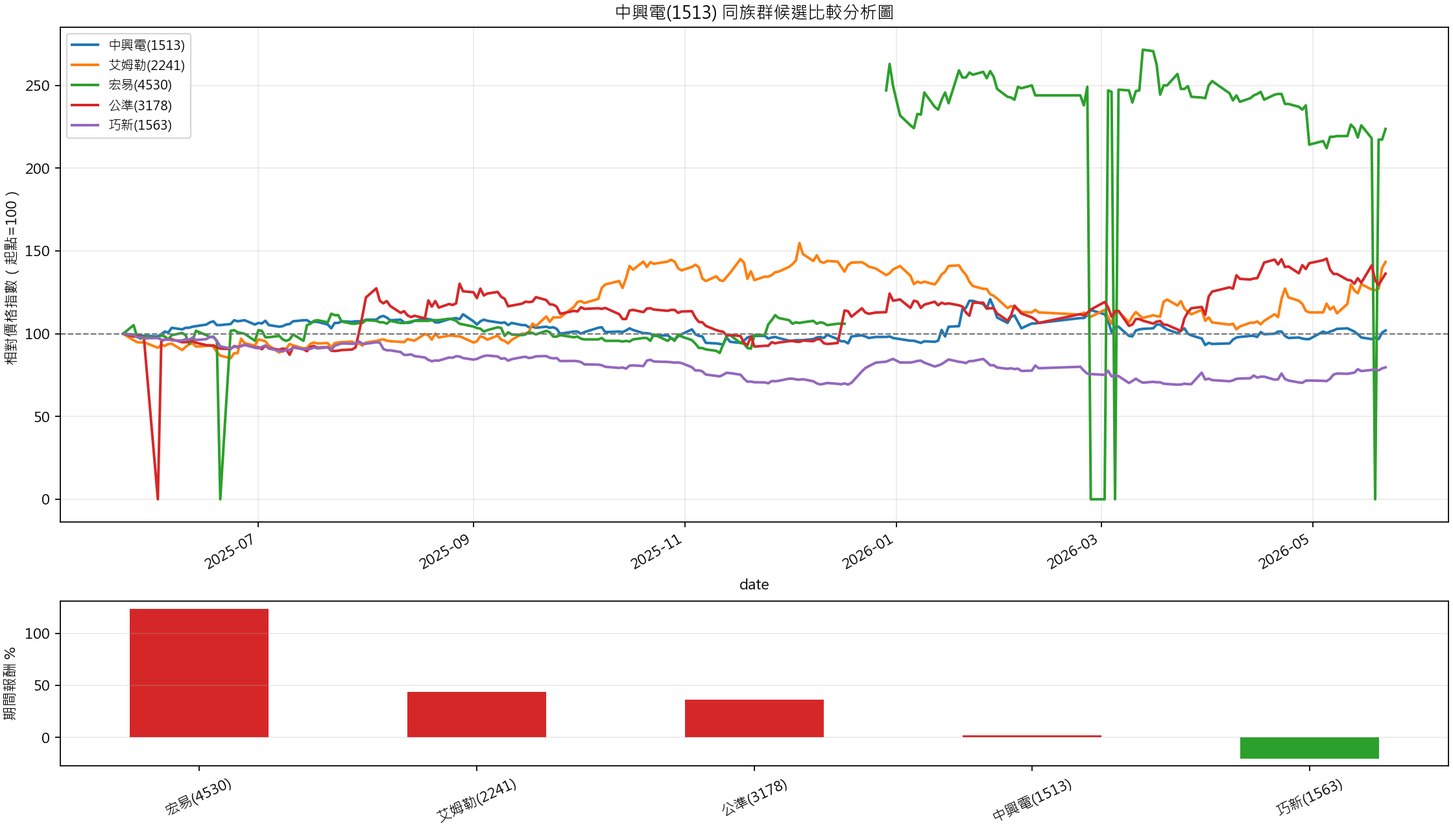
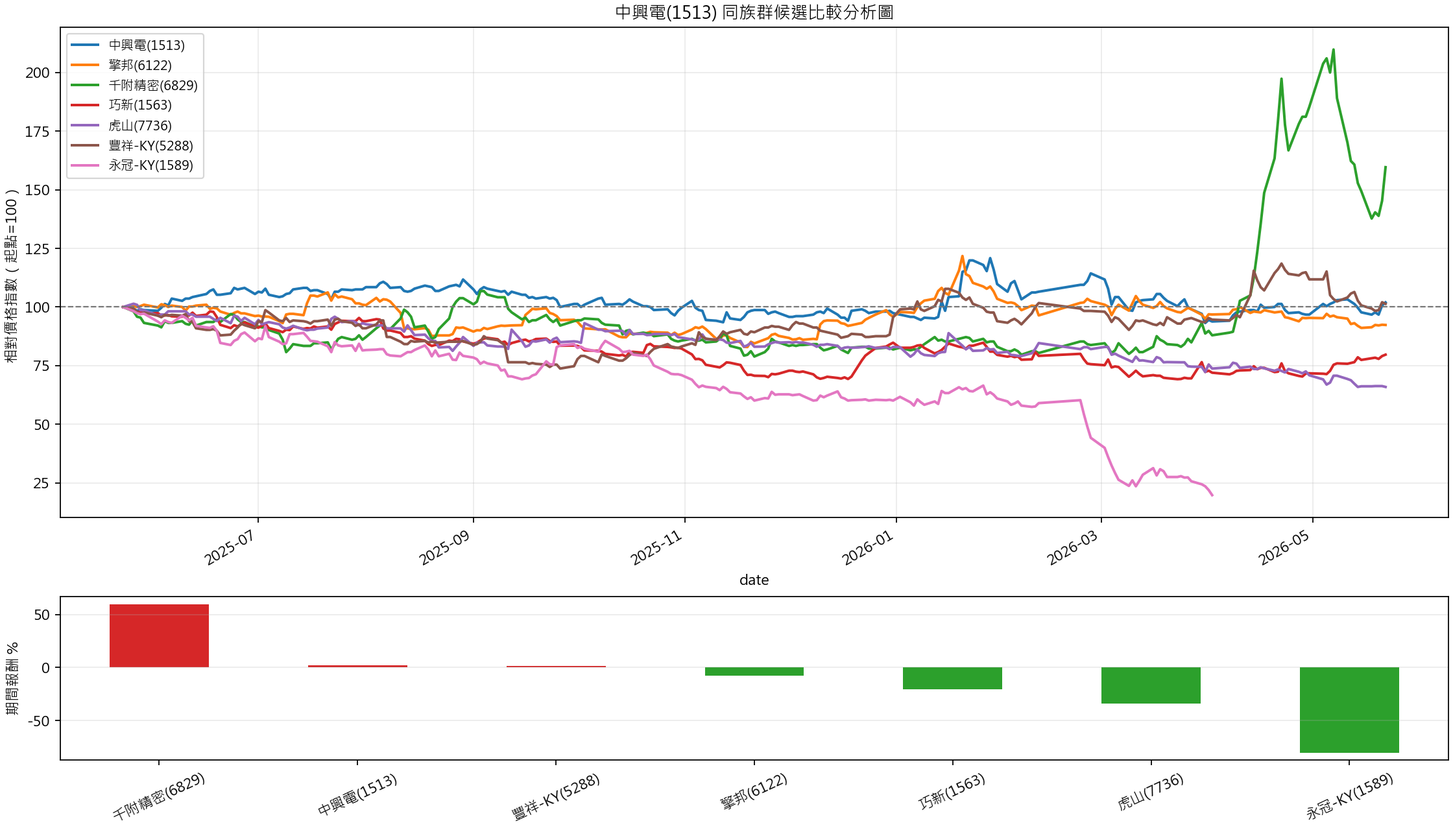
Publish stock report 1513_2026-05-23

diff --git a/1513_2026-05-23/index.html b/1513_2026-05-23/index.html
@@ -92,23 +92,16 @@
 <body>
   <header>
     <h1>中興電(1513) 台股技術分析報告</h1>
-    <div>產生時間：2026-05-23T07:47:08+08:00</div>
+    <div>產生時間：2026-05-23T09:40:03+08:00</div>
   </header>
   <main>
     
     <section class="panel conclusion">
       <h2>結論摘要</h2>
       <div class="summary-grid"><div class="summary-card"><span>整體方向</span><strong>中性偏多；收盤站上 MA5, MA5 低於 MA10, MA10 上方且投信 5/10 日偏買</strong></div>
-<div class="summary-card"><span>明日偏向</span><strong>偏多震盪</strong></div>
-<div class="summary-card"><span>一個月情境</span><strong>偏多延續</strong></div>
-<div class="summary-card"><span>關鍵觀察</span><strong>量價中性偏多；明日觀察 MA5 151.60 / MA10 153.20</strong></div>
+<div class="summary-card"><span>明日觀察</span><strong>量價中性偏多；明日觀察 MA5 151.60 / MA10 153.20</strong></div>
 <div class="summary-card"><span>支撐</span><strong>第一 151.60 / 第二 153.20 / 強 152.85</strong></div>
-<div class="summary-card"><span>壓力</span><strong>163.50</strong></div>
-<div class="summary-card"><span>ATR 波動</span><strong>ATR14 3.96，常態區間 152.54～160.46</strong></div>
-<div class="summary-card"><span>權證籌碼</span><strong>認購成交占 100.00%，近價外認購 13 檔，前五大成交占 39.29%</strong></div>
-<div class="summary-card"><span>權證看股價</span><strong>現股距認購主流履約價仍有 28.56% 空間，屬高想像但投機風險也高</strong></div>
-<div class="summary-card"><span>權證白話</span><strong>權證人氣偏多但偏投機，只能輔助現股判斷；現股不續強時權證容易快速降溫</strong></div>
-<div class="summary-card"><span>最大風險</span><strong>跌破 MA10 153.20 且放量，短線轉弱；跌破 MA20 152.85 則整理擴大</strong></div></div>
+<div class="summary-card"><span>壓力</span><strong>163.50</strong></div></div>
     </section>
     
     <section class="panel">
@@ -119,50 +112,52 @@
 <tr><th>最後交易日</th><td>2026-05-22</td></tr>
 <tr><th>有效交易日數</th><td>243</td></tr>
 <tr><th>圖表狀態</th><td>已產生 6 張圖表</td></tr>
-<tr><th>同族群比較</th><td>中興電(1513)、艾姆勒(2241)、宏易(4530)、公準(3178)、巧新(1563)</td></tr>
+<tr><th>同族群比較</th><td>中興電(1513)、擎邦(6122)、千附精密(6829)、巧新(1563)、虎山(7736)、豐祥-KY(5288)、永冠-KY(1589)</td></tr>
 <tr><th>ETF 持股異動</th><td>持有快照 2026-05-22，未命中最新異動</td></tr>
+<tr><th>集保股權分散</th><td>20260515；大額 42.40% / 小額 36.01%</td></tr>
 <tr><th>權證資料</th><td>115 檔，認購 113 / 認售 2</td></tr>
-<tr><th>基本面資料</th><td>月營收與估值資料已取得</td></tr></table>
+<tr><th>基本面資料</th><td>月營收、估值與正式 EPS 已取得</td></tr></table>
     </section>
     <section class="panel analysis"><h2>零、整體評語 / 技術分析概念 / 明日走向</h2><ul><li>整體評語：目前整體評級為「中性偏多」（分數 1）。日線 偏多、周線 偏多、月線 偏多，三個週期若同向，訊號可信度較高；若互相矛盾，應以區間與量能確認為主。</li><li>技術分析概念：本報告以趨勢、位置、量能三個面向判讀。趨勢看均線排列（MA5 151.60, MA10 153.20, MA20 152.85, MA60 154.72），位置看近 20 / 60 日高低點，量能看今日成交量 6,295,032 是否高於近 20 日均量 6,458,096。</li><li>目前結構：均線彼此交錯，代表市場仍在整理或方向選擇階段。收盤位於近 20 日區間約 59% 位置，仍需觀察是否能脫離區間。量能接近均量，價格訊號可參考，但強弱仍需隔日確認。</li><li>MA5 短線判斷：收盤站上 MA5，短線仍有撐盤力道。</li><li>MA10 / 投信支撐：收盤價站上 MA10（153.20），且投信近 5 日買賣超 1,837,840、近 10 日 1,774,230，代表短線均線支撐有法人買盤配合，MA10 支撐可信度較高。</li><li>明日走向推估：基於 日漲跌為正, 收盤站上 MA5, 收盤站上 MA10, 收盤站上 MA20，明日初步以「偏多震盪」看待；若開高並站穩 163.50，有機會延續挑戰上方壓力；若開低或跌破 146.50，短線需先防守轉弱。</li><li>觀察價位：短線支撐優先看 154.72，壓力優先看 163.50；明日若量能放大且收盤方向明確，會比盤中瞬間突破或跌破更具參考性。</li></ul></section>
-<section class="panel analysis"><h2>一、圖表重點解讀</h2><ul><li>整體評分為「中性偏多」（分數 1），主要依據：收盤站上 MA5、MA5 低於 MA10、收盤站上 MA20、收盤站上 MA60、MA20 低於 MA60。</li><li>資料最後交易日為 2026-05-22，最新收盤價 156.50，單日漲跌幅 1.29%；一年區間 142.50～189.00，一年報酬 1.95%。</li><li>趨勢判讀：價格與 20 日、60 日均線交錯，趨勢仍偏整理。 目前 收盤價位於區間中段，短線方向仍需量價確認。</li><li>量價判讀：量價中性偏多。價格收紅但量能接近均量，需等補量或突破確認。</li><li>短線均線判斷：收盤站上 MA10=153.20，但 MA5=151.60 仍低於 MA10，代表短線正在修復但均線尚未重新翻多。收盤價站上 MA10（153.20），且投信近 5 日買賣超 1,837,840、近 10 日 1,774,230，代表短線均線支撐有法人買盤配合，MA10 支撐可信度較高。</li><li>短線風險 / 空間：距近 20 日低點約 6.83%，距近 20 日高點約 4.47%；量能為近 20 日均量 0.97 倍。</li><li>同族群相對表現：中興電(1513) 期間報酬 1.95%，排名第 4/5；領先者為 宏易(4530) 123.71%。</li><li>操作解讀上，若價格突破壓力且量能續增，偏多情境較有延續性；若跌破短線支撐且放量，需優先控管風險。</li></ul></section>
-<section class="panel analysis"><h2>二、日週月趨勢與支撐壓力</h2><ul><li>日線短線：MA5=151.60、MA10=153.20；收盤站上 MA10=153.20，但 MA5=151.60 仍低於 MA10，代表短線正在修復但均線尚未重新翻多。</li><li>MA5走平，近似變化 0.13%。</li><li>MA10下彎，近似變化 -1.38%。</li><li>MA10 / 投信支撐：收盤價站上 MA10（153.20），且投信近 5 日買賣超 1,837,840、近 10 日 1,774,230，代表短線均線支撐有法人買盤配合，MA10 支撐可信度較高。</li><li>日線中線：MA20=152.85、MA60=154.72；收盤價相對 20 日均線 偏強。</li><li>MA20走平，近似變化 -0.36%。</li><li>MA60走平，近似變化 -0.62%。</li><li>周線：最新周收 156.50，較前一周 4.33%。</li><li>月線：最新月收 156.50，較前一月 5.39%。</li><li>第一支撐（5 日）：MA5 151.60 / 近 5 日低點 146.50；守住代表超短線買盤仍在，跌破則看第二支撐是否接手。</li><li>第二支撐（10 日）：MA10 153.20 / 近 10 日低點 146.50；收盤價站上 MA10（153.20），且投信近 5 日買賣超 1,837,840、近 10 日 1,774,230，代表短線均線支撐有法人買盤配合，MA10 支撐可信度較高。</li><li>強支撐（20 日）：MA20 152.85 / 近 20 日低點 146.50；若跌破 MA20 且量增，短線整理容易擴大。</li><li>中線支撐（60 日）：近 60 日低點 142.50。</li><li>短線壓力觀察近 20 日高點 163.50，中線壓力觀察近 60 日高點 178.00。</li><li>若收盤有效突破 163.50，短線結構轉強；若跌破 146.50，短線需防守轉弱。</li></ul></section>
-<section class="panel analysis"><h2>九、短線 / 中線與進出場情境</h2><ul><li>明日短線先看 MA5 151.60 與 MA10 153.20：站穩 MA5 且投信近 5 / 10 日維持買超，偏多延續性較高；跌破 MA10 且投信轉賣，短線需先防守。</li><li>短線若站穩 163.50，可視為挑戰近 20 日壓力；若跌破 146.50，需留意轉弱。</li><li>中線若守住 142.50，區間結構仍相對完整；若跌破，需重新評估趨勢。</li><li>若價格持續位於 MA20 與 MA60 之上且量能維持大於均量，偏多情境可信度提高；反之若跌破均線且量增，需防守風險。</li><li>突破追價情境：若收盤有效突破近 20 日高點 163.50，且量能高於 20 日均量，偏向趨勢延伸；失效點觀察是否跌回 MA5 151.60 下方。</li><li>拉回承接情境：若回測 MA10 / MA20 區間約 153.20～152.85 並量縮守住，代表拉回較像整理；若投信同步買超，支撐可信度提高。</li><li>跌破停損情境：若放量跌破 146.50 或近 20 日低點 146.50，短線結構轉弱，應優先降低偏多情境權重。</li><li>波動提醒：ATR14 約 3.96；若盤中波動超過 1 倍 ATR 且收盤未收回關鍵均線，代表風險升高。</li></ul></section>
-<section class="panel analysis"><h2>十二、風險提醒</h2><ul><li>本分析不構成投資建議；技術分析、籌碼估算、權證、同族群、基本面與未來情境推估皆可能失準。</li><li>權證屬高槓桿商品，可能快速損失；預測不代表價格保證。</li></ul></section>
+<section class="panel analysis"><h2>一、圖表重點解讀</h2><ul><li>整體評分為「中性偏多」（分數 1），主要依據：收盤站上 MA5、MA5 低於 MA10、收盤站上 MA20、收盤站上 MA60、MA20 低於 MA60。</li><li>資料最後交易日為 2026-05-22，最新收盤價 156.50，單日漲跌幅 1.29%；一年區間 142.50～189.00，一年報酬 1.95%。</li><li>趨勢判讀：價格與 20 日、60 日均線交錯，趨勢仍偏整理。 目前 收盤價位於區間中段，短線方向仍需量價確認。</li><li>量價判讀：量價中性偏多。價格收紅但量能接近均量，需等補量或突破確認。</li><li>短線均線判斷：收盤站上 MA10=153.20，但 MA5=151.60 仍低於 MA10，代表短線正在修復但均線尚未重新翻多。收盤價站上 MA10（153.20），且投信近 5 日買賣超 1,837,840、近 10 日 1,774,230，代表短線均線支撐有法人買盤配合，MA10 支撐可信度較高。</li><li>短線風險 / 空間：距近 20 日低點約 6.83%，距近 20 日高點約 4.47%；量能為近 20 日均量 0.97 倍。</li><li>同族群題材判斷：中興電(1513) 期間報酬 1.95%，排名第 2/7，屬於領先族群；族群同步普通（上漲 3/7 檔），領先者為 千附精密(6829) 59.62%。若族群同步續強，股價突破的可信度較高；若只有本股獨強，追價需留意回檔風險。</li><li>操作解讀上，若價格突破壓力且量能續增，偏多情境較有延續性；若跌破短線支撐且放量，需優先控管風險。</li></ul></section>
+<section class="panel analysis"><h2>二、日週月趨勢與支撐壓力</h2><ul><li>日線：MA5 151.60、MA10 153.20、MA20 152.85；收盤站上 MA10=153.20，但 MA5=151.60 仍低於 MA10，代表短線正在修復但均線尚未重新翻多。</li><li>周線 / 月線：周收 156.50（4.33%），月收 156.50（5.39%）。</li><li>支撐：第一 MA5 151.60 / 近 5 日低點 146.50；第二 MA10 153.20；強支撐 MA20 152.85 / 近 20 日低點 146.50。</li><li>壓力：短線看近 20 日高點 163.50，中線看近 60 日高點 178.00。</li><li>簡化判斷：突破 163.50 且補量，偏多延續；跌破 146.50 或 MA20，先轉防守。</li></ul></section>
+<section class="panel analysis"><h2>三、圖表閱讀順序</h2><ul><li>先看 01 日線：確認短線方向、成交量與支撐壓力。</li><li>再看 02 周線與 03 月線：確認這波是短線反彈、波段趨勢，還是長期壓力區。</li><li>最後看權證、同族群、基本面與集保：只作輔助確認，不單獨決定操作。</li></ul></section>
+<section class="panel analysis"><h2>九、短線 / 中線與進出場情境</h2><ul><li>突破情境：收盤突破 163.50 且量能高於 20 日均量，偏多延續；跌回 MA5 151.60 下方則降權重。</li><li>拉回情境：回測 MA10 153.20 或 MA20 152.85 量縮守住，才視為健康整理。</li><li>防守情境：放量跌破 MA20 152.85 或近 20 日低點 146.50，短線先轉防守。</li><li>波動參考：ATR14 約 3.96，明日常態波動區間約 152.54～160.46。</li></ul></section>
+<section class="panel analysis"><h2>九之一、股性與操作方式</h2><ul><li>股性判斷：低到中波動型，ATR 約占股價 2.53%。較適合區間或波段觀察，突破需要量能確認，否則容易來回震盪。</li><li>偏整理轉強：仍在 MA10 / MA20 上方，但短線尚未完全展開，較適合等拉回守住 MA10 或突破壓力再行動。</li><li>量能策略：量能接近均量，訊號中性，需等待突破壓力或跌破支撐來確認方向。</li><li>籌碼策略：收盤價站上 MA10（153.20），且投信近 5 日買賣超 1,837,840、近 10 日 1,774,230，代表短線均線支撐有法人買盤配合，MA10 支撐可信度較高。</li><li>權證輔助：權證未提供明顯單邊支持，操作仍以現股量價與支撐壓力為主。</li><li>參考操作框架：上方以近 20 日高點 163.50 作為突破確認，下方以 MA10 153.20、MA20 152.85 與近 20 日低點 146.50 分層控管。此為條件式交易計畫，不是保證買賣訊號。</li></ul></section>
     
         <section class="panel chart-panel">
           <h2>01_日線完整技術與籌碼分析圖</h2>
-          <img src="01_日線完整技術與籌碼分析圖.png?v=2026-05-23T07:47:08+08:00" alt="01_日線完整技術與籌碼分析圖">
+          <img src="01_日線完整技術與籌碼分析圖.png?v=2026-05-23T09:40:03+08:00" alt="01_日線完整技術與籌碼分析圖">
         </section>
         
 
         <section class="panel chart-panel">
           <h2>02_周線完整技術與趨勢分析圖</h2>
-          <img src="02_周線完整技術與趨勢分析圖.png?v=2026-05-23T07:47:08+08:00" alt="02_周線完整技術與趨勢分析圖">
+          <img src="02_周線完整技術與趨勢分析圖.png?v=2026-05-23T09:40:03+08:00" alt="02_周線完整技術與趨勢分析圖">
         </section>
         
 
         <section class="panel chart-panel">
           <h2>03_月線完整技術與長期趨勢分析圖</h2>
-          <img src="03_月線完整技術與長期趨勢分析圖.png?v=2026-05-23T07:47:08+08:00" alt="03_月線完整技術與長期趨勢分析圖">
+          <img src="03_月線完整技術與長期趨勢分析圖.png?v=2026-05-23T09:40:03+08:00" alt="03_月線完整技術與長期趨勢分析圖">
         </section>
         
 
         <section class="panel chart-panel">
           <h2>04_權證完整分析圖</h2>
-          <img src="04_權證完整分析圖.png?v=2026-05-23T07:47:08+08:00" alt="04_權證完整分析圖">
+          <img src="04_權證完整分析圖.png?v=2026-05-23T09:40:03+08:00" alt="04_權證完整分析圖">
         </section>
         
 
         <section class="panel chart-panel">
           <h2>05_同族群比較分析圖</h2>
-          <img src="05_同族群比較分析圖.png?v=2026-05-23T07:47:08+08:00" alt="05_同族群比較分析圖">
+          <img src="05_同族群比較分析圖.png?v=2026-05-23T09:40:03+08:00" alt="05_同族群比較分析圖">
         </section>
         
 
         <section class="panel chart-panel">
           <h2>06_基本面分析圖</h2>
-          <img src="06_基本面分析圖.png?v=2026-05-23T07:47:08+08:00" alt="06_基本面分析圖">
+          <img src="06_基本面分析圖.png?v=2026-05-23T09:40:03+08:00" alt="06_基本面分析圖">
         </section>
         
     <section class="panel">
@@ -190,13 +185,13 @@
 
     <details class="panel detail-panel">
       <summary>六、權證與市場情緒</summary>
-      <div class="detail-body"><ul><li>權證定位：以下只作為現股技術面與短線情緒的輔助判斷；現股漲跌仍以 K 線趨勢、支撐壓力、量能與法人 / 融資融券為主。</li><li>權證資料期間 / 出表日：TWSE report_date=1150522。</li><li>本次匹配權證 115 檔；認購 113 檔、認售 2 檔，認購/認售檔數比 56.50。</li><li>履約價分布 134.22～276.00，中位數 201.88；標的最新收盤 156.50。</li><li>價內 / 近價外結構：認購價內 2 檔、認購 10% 內價外 13 檔；認售價內 0 檔、認售 10% 內價外 0 檔。</li><li>成交金額合計 10,591,250，其中認購 10,591,250（100.00%）、認售 0（0.00%）；認購成交較集中，前 5 大成交占比 39.29%。</li><li>權證名詞說明：價內代表履約價已對買方有利，通常較接近現股價格變動；近價外代表履約價離現股不遠，若現股再往有利方向走，權證敏感度容易提高；深價外代表履約價離現股很遠，價格便宜但成功機率較低，時間價值流失也更快。</li><li>履約價熱區：認購成交加權履約價約 201.20，較現股高約 28.56%；認售成交加權履約價因成交金額不足暫不估算。認購成交中，近價外 10% 內占 14.71%，深價外認購占 85.29%。</li><li>以權證角度看目前股價：目前股價 156.50 距離認購成交加權履約價 201.20 還有 28.56% 空間，代表權證市場仍在押較大的上攻想像；但若現股沒有快速補漲，深價外認購的時間價值壓力會增加。</li><li>權證籌碼分型：本次屬於「偏多但投機」。近價外認購成交金額 1,557,810，深價外認購成交金額 9,033,440，近價外認售成交金額 0，深價外認售成交金額 0。深價外認購比重偏高，代表市場想像空間大，但也表示若現股漲幅不夠快，時間價值會明顯消耗。</li><li>資金集中度：前 5 大權證成交占 39.29%。成交集中度中等，資金有熱門標的但沒有完全擠在少數權證。</li><li>輔助結論：認購成交很熱，但深價外認購占比較高，表示市場有追逐大波動的投機資金。它可以反映人氣升溫，但對現股漲跌的確認力低於近價外認購。</li><li>白話解讀：很多人在買認購，可是有不少買得很遠，這比較像押快速大漲；如果現股沒有繼續強，這些權證容易先降溫。簡單說，權證是在看市場有沒有跟著股票一起熱起來；它可以加分或扣分，但不能單獨決定股價方向。</li><li>未來一個月輔助推估：現股技術面初步為「偏多延續」，權證籌碼只作為輔助。若價格維持在 MA20 / MA60 之上、量能不縮，且認購成交沒有明顯退潮，偏多情境較容易延續；若現股跌破支撐，即使認購仍熱，也要先降低權證訊號權重。</li><li>一個月觀察區間：上方先看 163.50，再看近 60 日高點 178.00；下方先看 152.85，再看近 20 日低點 146.50。突破近 20 日高點 163.50 可視為偏多確認；跌破近 20 日低點 146.50 則偏多情境失效；MA20 152.85 是短中線強弱分界。</li><li>權證操作提醒：若買認購，優先關注接近現股、成交量穩定、到期日不過近的標的；深價外權證即使價格便宜，也容易因時間價值流失而快速歸零。若現股跌破支撐，權證部位應比現股更快控管風險。</li></ul></div>
+      <div class="detail-body"><ul><li>權證定位：本段只用權證資料觀察現股人氣與未來漲勢機率，不作權證買賣建議。</li><li>權證資料期間 / 出表日：TWSE report_date=1150522。</li><li>本次匹配權證 115 檔；認購 113 檔、認售 2 檔，認購/認售檔數比 56.50。</li><li>履約價分布 134.22～276.00，中位數 201.88；標的最新收盤 156.50。</li><li>價內 / 近價外結構：認購價內 2 檔、認購 10% 內價外 13 檔；認售價內 0 檔、認售 10% 內價外 0 檔。</li><li>成交金額合計 10,591,250，其中認購 10,591,250（100.00%）、認售 0（0.00%）；認購成交較集中，前 5 大成交占比 39.29%。</li><li>權證名詞說明：近價外認購代表市場押注區離現股不遠，對現股續漲的參考性通常高於深價外；深價外認購代表想像空間大，但確認力較弱。</li><li>履約價熱區：認購成交加權履約價約 201.20，較現股高約 28.56%；認售成交加權履約價因成交金額不足暫不估算。認購成交中，近價外 10% 內占 14.71%，深價外認購占 85.29%。</li><li>以權證角度看目前股價：目前股價 156.50 距離認購成交加權履約價 201.20 還有 28.56% 空間，代表權證市場仍在押較大的上攻想像；但若現股沒有快速補漲，深價外認購的時間價值壓力會增加。</li><li>權證情緒分型：本次屬於「偏多但投機」。近價外認購成交金額 1,557,810，深價外認購成交金額 9,033,440，近價外認售成交金額 0，深價外認售成交金額 0。深價外認購比重偏高，代表市場想像空間大，但對現股方向的確認力較弱。</li><li>資金集中度：前 5 大權證成交占 39.29%。成交集中度中等，資金有熱門標的但沒有完全擠在少數權證。</li><li>輔助結論：認購成交很熱，但深價外認購占比較高，表示市場有追逐大波動的投機資金。它可以反映人氣升溫，但對現股漲跌的確認力低於近價外認購。</li><li>白話解讀：權證市場偏向押快速上漲，但有一部分離現股較遠；如果現股沒有繼續強，這個熱度容易先退。簡單說，權證是在看市場有沒有跟著股票一起熱起來；它可以加分或扣分，但不能單獨決定股價方向。</li><li>未來一個月現股輔助推估：現股技術面初步為「偏多延續」。若價格維持在 MA20 / MA60 之上、量能不縮，且認購成交沒有明顯退潮，偏多情境較容易延續；若現股跌破支撐，即使認購仍熱，也要先降低權證訊號權重。</li><li>一個月觀察區間：上方先看 163.50，再看近 60 日高點 178.00；下方先看 152.85，再看近 20 日低點 146.50。突破近 20 日高點 163.50 可視為偏多確認；跌破近 20 日低點 146.50 則偏多情境失效；MA20 152.85 是短中線強弱分界。</li><li>現股判斷用法：近價外認購有量、認售沒有明顯放大、且現股同步站穩均線時，權證資料可視為現股續漲的加分項；若權證很熱但現股不漲，則視為人氣過熱而非追價確認。</li></ul></div>
     </details>
     
 
     <details class="panel detail-panel">
       <summary>七、同族群比較</summary>
-      <div class="detail-body"><ul><li>比較依據：大產業候選：電機機械</li><li>比較清單：中興電(1513)、艾姆勒(2241)、宏易(4530)、公準(3178)、巧新(1563)</li><li>同期間相對報酬排序：宏易(4530) 123.71%、艾姆勒(2241) 43.37%、公準(3178) 36.29%、中興電(1513) 1.95%、巧新(1563) -20.33%</li><li>部分候選排除：總格精密(4578): No TaiwanStockPrice rows for 4578；東元精電(8041): No TaiwanStockPrice rows for 8041</li><li>此圖標示為同產業候選比較，不等同精準子產業或主題族群。</li></ul></div>
+      <div class="detail-body"><ul><li>比較依據：同產業相關性候選：電機機械（中：同產業候選，將再依一年價格相關性篩選；一年日報酬相關性排序）</li><li>比較清單：中興電(1513)、擎邦(6122)、千附精密(6829)、巧新(1563)、虎山(7736)、豐祥-KY(5288)、永冠-KY(1589)</li><li>同期間相對報酬排序：千附精密(6829) 59.62%、中興電(1513) 1.95%、豐祥-KY(5288) 1.35%、擎邦(6122) -7.67%、巧新(1563) -20.33%、虎山(7736) -34.10%</li><li>相關性：擎邦(6122) 0.334、千附精密(6829) 0.292、巧新(1563) 0.236、虎山(7736) 0.223、豐祥-KY(5288) 0.186、永冠-KY(1589) 0.170</li><li>部分候選排除：總格精密(4578): No TaiwanStockPrice rows for 4578；東元精電(8041): No TaiwanStockPrice rows for 8041；開億(1523): No TaiwanStockPrice rows for 1523</li><li>此圖為同產業相關性候選比較，不等同精準子產業；若使用者指定清單，會優先採用指定清單。</li></ul></div>
     </details>
     
 
@@ -207,8 +202,14 @@
     
 
     <details class="panel detail-panel">
+      <summary>七之二、集保股權分散資訊</summary>
+      <div class="detail-body"><ul><li>資料來源：TDCC OpenAPI /v1/opendata/1-5 集保戶股權分散表；資料日期 20260515。</li><li>集保戶數合計 153,862 人，集保股數合計 503,112,515 股。</li><li>小額持股（1～10,000 股）占 36.01%；中階持股（50,001～400,000 股）占 9.50%；大額持股（400,001 股以上）占 42.40%，其中百萬股以上占 37.71%。</li><li>集保結構判斷：籌碼較分散。散戶與中小持股比重較高，股價上攻時更需要成交量與法人買盤配合。</li><li>散戶化觀察：小額持股占比偏高，短線若遇利空或跌破支撐，籌碼容易比較浮動。</li><li>限制：TDCC 集保資料通常是每週最後營業日結束後的持股級距統計，能看籌碼集中或分散，但不能知道是哪位自然人或哪家主力在買賣。</li></ul></div>
+    </details>
+    
+
+    <details class="panel detail-panel">
       <summary>八、基本面 EPS / 月營收</summary>
-      <div class="detail-body"><ul><li>基本面資料期間：revenue 2023-12-01 to 2026-05-01; PER/PBR 2025-05-23 to 2026-05-22。</li><li>最新月營收 2026-04 為 23.08 億元，MoM -6.87%，YoY 5.86%。</li><li>近 3 個月營收 66.65 億元，較前 3 個月 -5.06%。</li><li>最新估值：PER 19.02、PBR 3.59、殖利率 3.83%，以收盤價/PER 推估 EPS 約 8.23。</li></ul></div>
+      <div class="detail-body"><ul><li>基本面資料期間：revenue 2023-12-01 to 2026-05-01; PER/PBR 2025-05-23 to 2026-05-22; EPS 2021-06-30 to 2026-03-31。</li><li>最新月營收 2026-04 為 23.08 億元，MoM -6.87%，YoY 5.86%。</li><li>近 3 個月營收 66.65 億元，較前 3 個月 -5.06%。</li><li>最新估值：PER 19.02、PBR 3.59、殖利率 3.83%。</li><li>正式 EPS：最新 2026Q1 基本每股盈餘 1.94 元，較去年同期 8.99%。</li><li>是否支持股價：支持度中性。理由：近 3 個月營收動能轉弱、最新月營收年增為正、正式 EPS 年增。</li></ul></div>
     </details>
     
 
@@ -247,6 +248,43 @@
     
 
     <details class="panel detail-panel">
+      <summary>集保戶股權分散表格</summary>
+      <div class="detail-body">
+      <div class="table-scroll">
+        <table>
+          <thead>
+            <tr>
+              <th>級距</th>
+              <th>持股分級</th>
+              <th>人數</th>
+              <th>股數</th>
+              <th>占集保庫存比例</th>
+            </tr>
+          </thead>
+          <tbody><tr><td>1</td><td>1-999 股</td><td class="cell-number">72,738</td><td class="cell-number">9,342,361</td><td class="cell-number">1.85%</td></tr>
+<tr><td>2</td><td>1,000-5,000 股</td><td class="cell-number">72,106</td><td class="cell-number">129,255,137</td><td class="cell-number">25.69%</td></tr>
+<tr><td>3</td><td>5,001-10,000 股</td><td class="cell-number">5,489</td><td class="cell-number">42,645,352</td><td class="cell-number">8.47%</td></tr>
+<tr><td>4</td><td>10,001-15,000 股</td><td class="cell-number">1,367</td><td class="cell-number">17,554,752</td><td class="cell-number">3.48%</td></tr>
+<tr><td>5</td><td>15,001-20,000 股</td><td class="cell-number">754</td><td class="cell-number">14,043,157</td><td class="cell-number">2.79%</td></tr>
+<tr><td>6</td><td>20,001-30,000 股</td><td class="cell-number">558</td><td class="cell-number">14,369,036</td><td class="cell-number">2.85%</td></tr>
+<tr><td>7</td><td>30,001-40,000 股</td><td class="cell-number">222</td><td class="cell-number">8,036,422</td><td class="cell-number">1.59%</td></tr>
+<tr><td>8</td><td>40,001-50,000 股</td><td class="cell-number">139</td><td class="cell-number">6,514,395</td><td class="cell-number">1.29%</td></tr>
+<tr><td>9</td><td>50,001-100,000 股</td><td class="cell-number">243</td><td class="cell-number">17,587,678</td><td class="cell-number">3.49%</td></tr>
+<tr><td>10</td><td>100,001-200,000 股</td><td class="cell-number">113</td><td class="cell-number">15,023,732</td><td class="cell-number">2.98%</td></tr>
+<tr><td>11</td><td>200,001-400,000 股</td><td class="cell-number">52</td><td class="cell-number">15,277,161</td><td class="cell-number">3.03%</td></tr>
+<tr><td>12</td><td>400,001-600,000 股</td><td class="cell-number">16</td><td class="cell-number">7,813,151</td><td class="cell-number">1.55%</td></tr>
+<tr><td>13</td><td>600,001-800,000 股</td><td class="cell-number">14</td><td class="cell-number">9,495,239</td><td class="cell-number">1.88%</td></tr>
+<tr><td>14</td><td>800,001-1,000,000 股</td><td class="cell-number">7</td><td class="cell-number">6,384,191</td><td class="cell-number">1.26%</td></tr>
+<tr><td>15</td><td>1,000,001 股以上</td><td class="cell-number">44</td><td class="cell-number">189,770,751</td><td class="cell-number">37.71%</td></tr>
+<tr><td>16</td><td>差異或調整數</td><td class="cell-number">0</td><td class="cell-number">0</td><td class="cell-number">0.00%</td></tr>
+<tr><td>17</td><td>合計</td><td class="cell-number">153,862</td><td class="cell-number">503,112,515</td><td class="cell-number">100.00%</td></tr></tbody>
+        </table>
+      </div>
+    </div>
+    </details>
+    
+
+    <details class="panel detail-panel">
       <summary>權證成交金額前 5 名表格</summary>
       <div class="detail-body">
       <div class="table-scroll">
@@ -271,11 +309,6 @@
     </div>
     </details>
     
-    <section class="panel notice">
-      <strong>風險提醒：</strong>
-      本分析不構成投資建議；技術分析、籌碼估算、權證、同族群、基本面與未來情境推估皆可能失準；
-      權證屬高槓桿商品，可能快速損失；預測不代表價格保證。
-    </section>
   </main>
 </body>
 </html>
